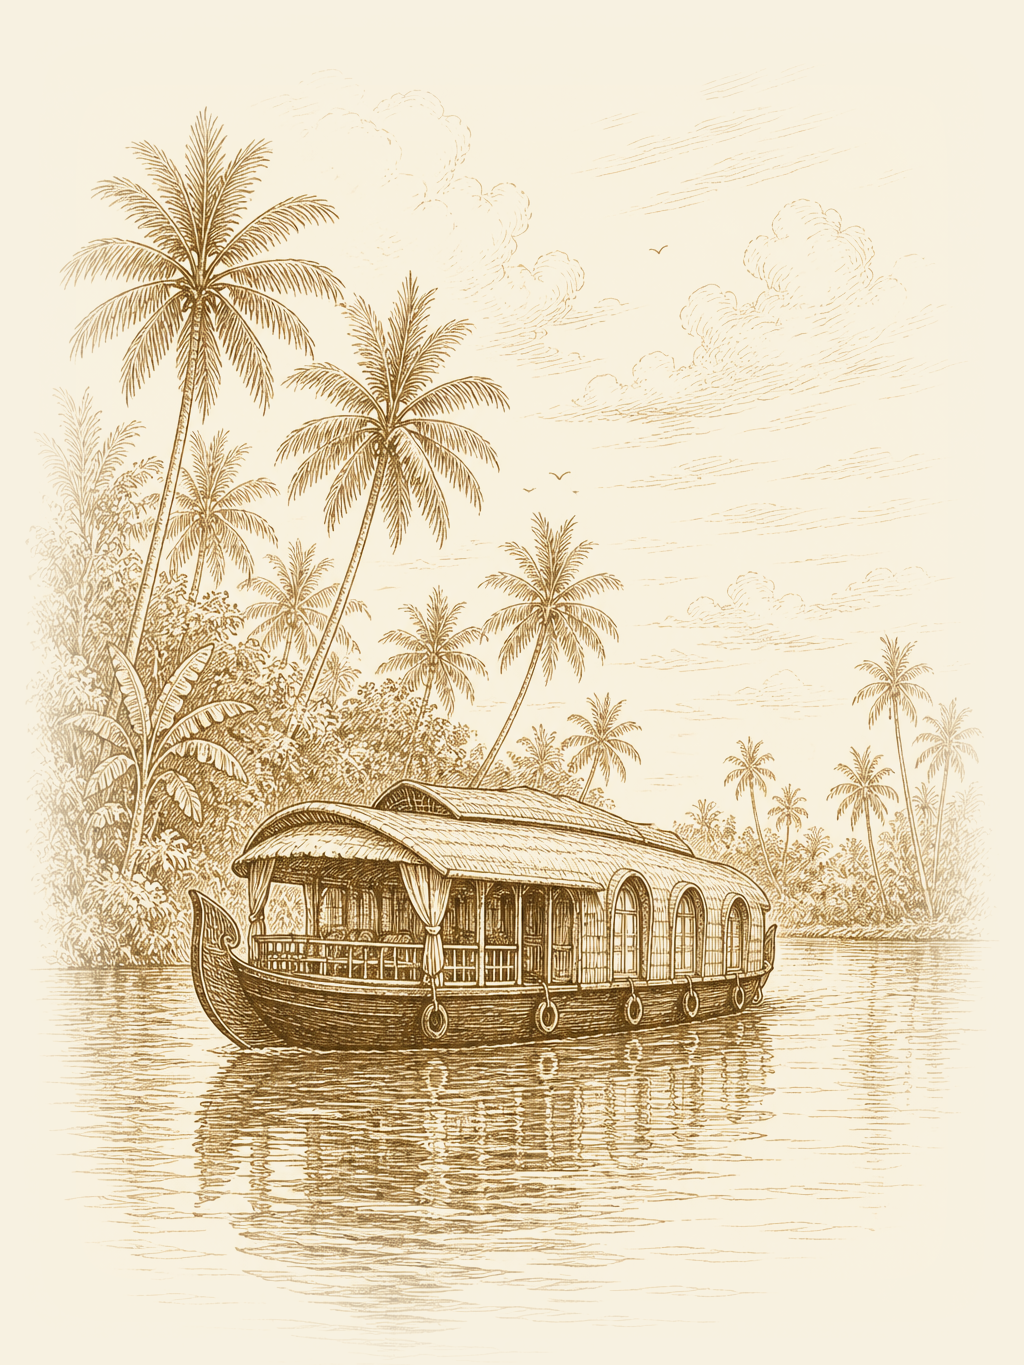
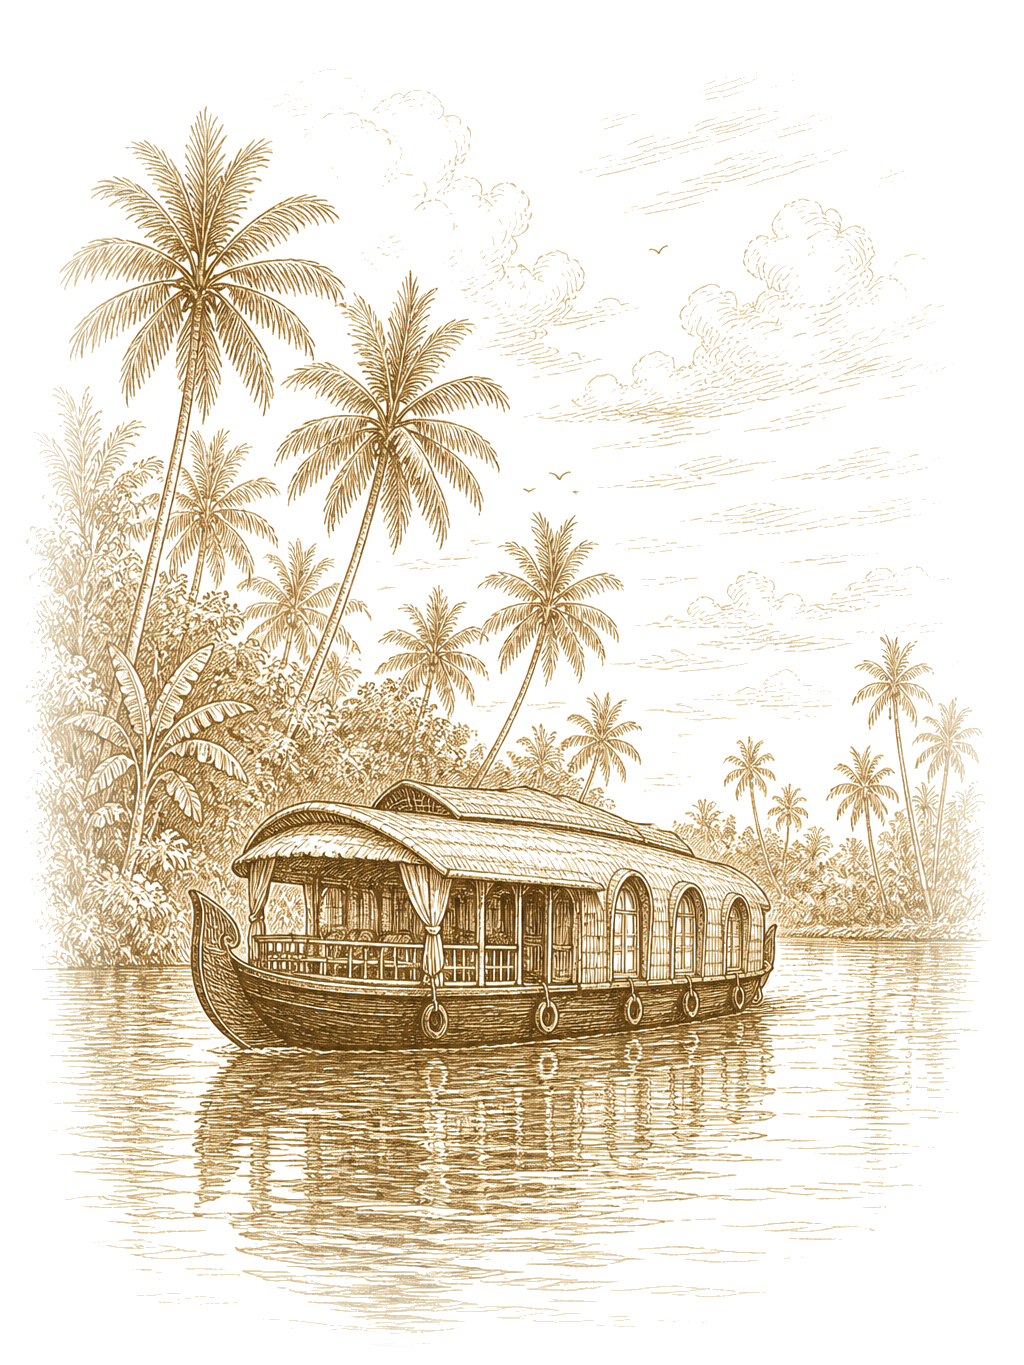
Optimized phone screen looks

diff --git a/components/registry/style-one-hero.tsx b/components/registry/style-one-hero.tsx
@@ -13,75 +13,61 @@ type StyleOneHeroProps = {
 const DEFAULT_COPY =
   "Your love and blessings mean the world to us. If you’d like to gift, we’ve gathered a few things that will help us build our happy home together.";
 
+const sketchClass = "object-contain object-center";
+
 export function StyleOneHero({
   eyebrow = "Celebrating our forever",
   title = "Our Gift Registry",
   description = DEFAULT_COPY,
 }: StyleOneHeroProps) {
   return (
-    <section className="relative flex min-h-0 flex-1 flex-col justify-center overflow-hidden py-2 sm:py-4">
-      {/* Mobile: sketches overlay the sides so they can be as tall as the invitation. */}
-      <figure className="pointer-events-none absolute inset-y-0 left-0 z-0 w-[46%] sm:hidden">
-        <Image
-          src="/images/tamil-nadu-sketch.png"
-          alt="Sepia sketch of a Tamil Nadu temple gopuram with kolam"
-          fill
-          priority
-          sizes="46vw"
-          className="object-contain object-left"
-        />
-      </figure>
-      <figure className="pointer-events-none absolute inset-y-0 right-0 z-0 w-[46%] sm:hidden">
-        <Image
-          src="/images/kerala-sketch.png"
-          alt="Sepia sketch of a Kerala houseboat on the backwaters"
-          fill
-          priority
-          sizes="46vw"
-          className="object-contain object-right"
-        />
-      </figure>
-
-      <div className="relative z-10 mx-auto grid w-full max-w-[92rem] items-center gap-0 px-2 sm:grid-cols-[minmax(0,0.9fr)_minmax(0,1.2fr)_minmax(0,0.9fr)] sm:gap-2 sm:px-3 md:grid-cols-[minmax(0,1.05fr)_minmax(0,1fr)_minmax(0,1.05fr)] lg:grid-cols-[minmax(0,1.2fr)_minmax(15rem,0.85fr)_minmax(0,1.2fr)] lg:gap-1 lg:px-3 xl:px-4">
-        <figure className="hidden min-w-0 sm:block">
-          <div className="relative mx-auto aspect-[3/4] w-full lg:min-h-[34rem] xl:min-h-[40rem]">
+    <section className="relative overflow-hidden pb-2 pt-1 sm:pb-4 sm:pt-4">
+      <div className="mx-auto grid w-full max-w-[92rem] grid-cols-[minmax(0,1.2fr)_minmax(0,0.85fr)_minmax(0,1.2fr)] items-center gap-0 px-1.5 sm:grid-cols-[minmax(0,0.9fr)_minmax(0,1.2fr)_minmax(0,0.9fr)] sm:gap-2 sm:px-3 md:grid-cols-[minmax(0,1.05fr)_minmax(0,1fr)_minmax(0,1.05fr)] lg:grid-cols-[minmax(0,1.2fr)_minmax(15rem,0.85fr)_minmax(0,1.2fr)] lg:gap-1 lg:px-3 xl:px-4">
+        <figure className="min-w-0">
+          <div className="relative mx-auto aspect-[3/4] w-full bg-transparent lg:min-h-[34rem] xl:min-h-[40rem]">
             <Image
               src="/images/tamil-nadu-sketch.png"
               alt="Sepia sketch of a Tamil Nadu temple gopuram with kolam"
               fill
               priority
-              sizes="(max-width: 1024px) 32vw, 42vw"
-              className="object-contain object-center"
+              unoptimized
+              sizes="(max-width: 640px) 40vw, (max-width: 1024px) 32vw, 42vw"
+              className={sketchClass}
             />
           </div>
         </figure>
 
-        <div className="mx-auto flex min-w-0 max-w-[13.5rem] flex-col items-center px-2 py-3 text-center sm:max-w-none sm:px-2 sm:py-3 lg:px-2 lg:py-0">
-          <HeaderMandala className="h-5 w-5 text-gold sm:h-7 sm:w-7" />
-          <p className="mt-3 font-ceremony text-[0.62rem] tracking-[0.22em] text-[#5c4033] uppercase sm:mt-4 sm:text-[0.68rem] sm:tracking-[0.3em]">
+        <div className="z-10 flex min-w-0 flex-col items-center px-1 py-2 text-center sm:px-2 sm:py-3 lg:px-2 lg:py-0">
+          <HeaderMandala className="h-4 w-4 text-gold sm:h-7 sm:w-7" />
+          <p className="mt-2 font-ceremony text-[0.52rem] tracking-[0.16em] text-[#5c4033] uppercase sm:mt-4 sm:text-[0.68rem] sm:tracking-[0.3em]">
             {eyebrow}
           </p>
-          <h1 className="mt-2 font-ceremony text-[1.55rem] leading-[1.12] text-maroon-deep sm:mt-3 sm:text-[1.85rem] md:text-[2.35rem] lg:text-[2.65rem]">
+          <h1 className="mt-1.5 font-ceremony text-[1.15rem] leading-[1.12] text-maroon-deep sm:mt-3 sm:text-[1.85rem] md:text-[2.35rem] lg:text-[2.65rem]">
             {title}
           </h1>
-          <TitleFlourish className="mt-3 h-3.5 w-[5.5rem] text-gold sm:mt-4 sm:h-[18px] sm:w-[100px]" />
-          <p className="mt-3 font-display text-[0.92rem] leading-[1.5] text-[#5c4033] sm:mt-5 sm:max-w-xs sm:text-[1.12rem] sm:leading-[1.65]">
+          <TitleFlourish className="mt-2 h-3 w-[4.5rem] text-gold sm:mt-4 sm:h-[18px] sm:w-[100px]" />
+          <p className="mt-5 hidden max-w-xs font-display text-[1.12rem] leading-[1.65] text-[#5c4033] sm:block">
             {description}
           </p>
         </div>
 
-        <figure className="hidden min-w-0 sm:block">
-          <div className="relative mx-auto aspect-[3/4] w-full lg:min-h-[34rem] xl:min-h-[40rem]">
+        <figure className="min-w-0">
+          <div className="relative mx-auto aspect-[3/4] w-full bg-transparent lg:min-h-[34rem] xl:min-h-[40rem]">
             <Image
               src="/images/kerala-sketch.png"
               alt="Sepia sketch of a Kerala houseboat on the backwaters"
               fill
               priority
-              sizes="(max-width: 1024px) 32vw, 42vw"
-              className="object-contain object-center"
+              unoptimized
+              sizes="(max-width: 640px) 40vw, (max-width: 1024px) 32vw, 42vw"
+              className={sketchClass}
             />
           </div>
         </figure>
+
+        <p className="col-span-3 mx-auto mt-3 max-w-md px-4 text-center font-display text-[0.9rem] leading-[1.55] text-[#5c4033] sm:hidden">
+          {description}
+        </p>
       </div>
     </section>
   );

diff --git a/components/site-header.tsx b/components/site-header.tsx
@@ -11,20 +11,21 @@ function NavLink({
   href,
   children,
   active,
+  tone = "muted",
 }: {
   href: string;
   children: ReactNode;
   active?: boolean;
+  tone?: "muted" | "gold";
 }) {
+  const color = active
+    ? "relative text-maroon-deep"
+    : tone === "gold"
+      ? "text-gold transition hover:text-maroon-deep"
+      : "text-[#6a5344] transition hover:text-maroon-deep";
+
   return (
-    <Link
-      href={href}
-      className={
-        active
-          ? "relative text-maroon-deep"
-          : "text-[#6a5344] transition hover:text-maroon-deep"
-      }
-    >
+    <Link href={href} className={`inline-flex items-center leading-none ${color}`}>
       {children}
       {active ? (
         <span
@@ -51,15 +52,15 @@ export async function SiteHeader({ active }: SiteHeaderProps) {
 
   return (
     <header className="relative z-30 bg-transparent">
-      <div className="mx-auto flex w-full max-w-[92rem] items-start justify-between gap-3 px-3 pb-1 pt-4 sm:gap-6 sm:px-6 sm:pt-6 lg:px-8">
-        <Link href="/" className="flex flex-col items-start pt-0.5">
-          <span className="font-ceremony text-[0.95rem] tracking-[0.22em] text-maroon-deep uppercase sm:text-lg md:text-[1.25rem]">
+      <div className="mx-auto flex w-full max-w-[92rem] items-center justify-between gap-2 px-3 pb-1 pt-4 sm:items-start sm:gap-6 sm:px-6 sm:pt-6 lg:px-8">
+        <Link href="/" className="flex min-w-0 flex-col items-start pt-0.5">
+          <span className="font-ceremony text-[0.8rem] tracking-[0.16em] text-maroon-deep uppercase sm:text-lg sm:tracking-[0.22em] md:text-[1.25rem]">
             Sagar &amp; Krithika
           </span>
           <GoldSideFlourish className="mt-1.5 text-gold" />
         </Link>
 
-        <nav className="flex flex-wrap items-center justify-end gap-x-4 gap-y-2 pt-1.5 text-[0.62rem] tracking-[0.22em] uppercase sm:gap-6 sm:text-[0.7rem]">
+        <nav className="flex flex-nowrap items-center justify-end gap-x-3 pt-0.5 text-[0.58rem] tracking-[0.16em] whitespace-nowrap uppercase sm:gap-6 sm:pt-1.5 sm:text-[0.7rem] sm:tracking-[0.22em]">
           <NavLink href="/" active={active === "home"}>
             Home
           </NavLink>
@@ -67,12 +68,9 @@ export async function SiteHeader({ active }: SiteHeaderProps) {
             Registry
           </NavLink>
           {admin ? (
-            <Link
-              href="/admin"
-              className="text-gold transition hover:text-maroon-deep"
-            >
+            <NavLink href="/admin" tone="gold">
               Admin
-            </Link>
+            </NavLink>
           ) : null}
         </nav>
       </div>

diff --git a/app/registry/page.tsx b/app/registry/page.tsx
@@ -56,10 +56,10 @@ export default async function RegistryPage({ searchParams }: RegistryPageProps) 
 
   return (
     <div className="relative min-h-full overflow-x-hidden bg-background">
-      <div className="flex min-h-dvh flex-col">
+      <div>
         <SiteHeader active="registry" />
         <StyleOneHero />
-        <div className="relative z-20 mt-auto pb-3 sm:mt-4 sm:pb-0">
+        <div className="relative z-20 mt-3 sm:mt-4">
           <CategoryIconBar categories={categories} activeSlug={activeSlug} />
         </div>
       </div>

diff --git a/docs/AGENT_MEMORY.md b/docs/AGENT_MEMORY.md
@@ -13,3 +13,15 @@ Read these before changing product behavior or architecture:
 1. Done through Phase 6 (polish + deployment guide)
 2. Optional: full wedding landing on `/`, CAPTCHA, richer OG images (Phase 7)
 3. When ready: follow [deployment.md](./deployment.md) to ship on Vercel
+
+## Phone-first UI
+
+Most guests view the registry on a phone. Always design that viewport first.
+
+**Phone first screen (`/registry`)**
+
+Same invitation as laptop, scaled to the phone: Tamil Nadu (left) | title (center) | Kerala (right), same sketch files and `object-contain` as desktop. Intro copy sits **under** the sketches on phones. Category bar follows the content (do not stretch the first screen to push it to the viewport bottom). Gifts below.
+
+Do not use a separate stacked sketch layout on phones. Do not crop or restyle the sketches differently than laptop.
+
+**Desktop:** Tamil Nadu | copy | Kerala, then the same category bar and a 3-column gift grid. Phones use a 2-column gift grid with smaller type and tighter cards.

diff --git a/docs/implementation-plan.md b/docs/implementation-plan.md
@@ -194,11 +194,14 @@ reserve_gift(p_gift_id uuid, p_guest_name text)
 
 **`/registry`**
 
+Phone-first. Most guests are on a phone; layout for that screen first.
+
 1. **Sagar & Krithika**
-2. **Our Gift Registry**
-3. Warm intro
-4. Category nav: All | Kitchen | Home | Decor | Experiences | Gift Cards
-5. Editorial gift grid (1 col mobile / 3 col desktop)
+2. **Our Gift Registry** (eyebrow + title)
+3. Tamil Nadu + Kerala sketches — same 3-column invitation as desktop (sketches flank the copy); same images and object-contain on every screen
+4. Warm intro
+5. Slim category nav: All | Kitchen | Home | Decor | Experiences | Gift Cards
+6. Editorial gift grid (2 col phone / 3 col desktop) — below the first screen on phones
 
 **Gift tile:** large image, title, short description, Reserve / Reserved. No prices.
 
